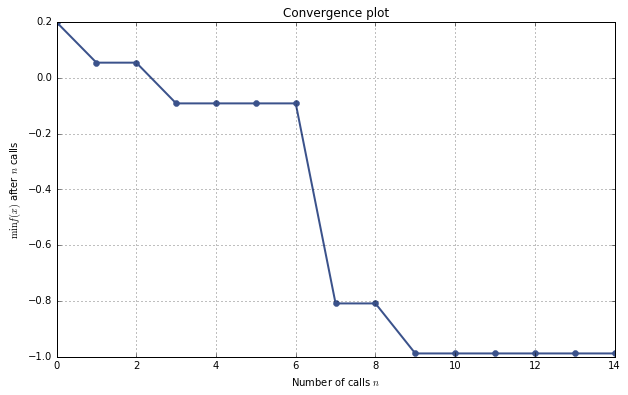
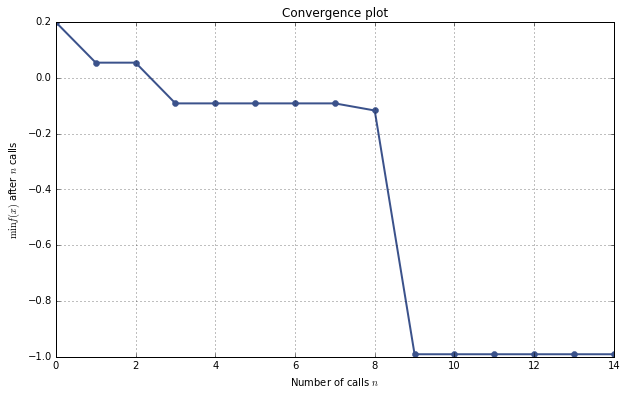
Deploying documentation for 4c825ece7493cb6c2487e1c326f51831e1c94425

diff --git a/notebooks/bayesian-optimization.html b/notebooks/bayesian-optimization.html
@@ -1171,17 +1171,17 @@ controlling the exploration-exploitation trade-off.
                   <span class="n">acq</span><span class="o">=</span><span class="s2">&quot;LCB&quot;</span><span class="p">,</span>          <span class="c1"># the acquisition function (optional)</span>
                   <span class="n">base_estimator</span><span class="o">=</span><span class="n">gp</span><span class="p">,</span>  <span class="c1"># a GP estimator (optional)</span>
                   <span class="n">n_calls</span><span class="o">=</span><span class="mi">15</span><span class="p">,</span>         <span class="c1"># the number of evaluations of f</span>
-                  <span class="n">n_random_starts</span><span class="o">=</span><span class="mi">1</span><span class="p">,</span>          <span class="c1"># the number of random evaluations at initialization</span>
+                  <span class="n">n_random_starts</span><span class="o">=</span><span class="mi">1</span><span class="p">,</span>  <span class="c1"># the number of random evaluations at initialization</span>
                   <span class="n">random_state</span><span class="o">=</span><span class="mi">777</span><span class="p">)</span>
 </pre></div>
 
 
 <p>Accordingly, the approximated minimum is found to be:</p>
-<div class="codehilite"><pre><span></span><span class="s2">&quot;x^*=</span><span class="si">%.4f</span><span class="s2">, f(x^*)=</span><span class="si">%.4f</span><span class="s2">&quot;</span> <span class="o">%</span> <span class="p">(</span><span class="n">res</span><span class="o">.</span><span class="n">x</span><span class="p">,</span> <span class="n">res</span><span class="o">.</span><span class="n">fun</span><span class="p">)</span>
+<div class="codehilite"><pre><span></span><span class="s2">&quot;x^*=</span><span class="si">%.4f</span><span class="s2">, f(x^*)=</span><span class="si">%.4f</span><span class="s2">&quot;</span> <span class="o">%</span> <span class="p">(</span><span class="n">res</span><span class="o">.</span><span class="n">x</span><span class="p">[</span><span class="mi">0</span><span class="p">],</span> <span class="n">res</span><span class="o">.</span><span class="n">fun</span><span class="p">)</span>
 </pre></div>
 
 
-<div class="codehilite"><pre><span></span>&#39;x^*=-0.3054, f(x^*)=-0.9880&#39;
+<div class="codehilite"><pre><span></span>&#39;x^*=-0.2950, f(x^*)=-0.9909&#39;
 </pre></div>
 
 
@@ -1199,10 +1199,10 @@ controlling the exploration-exploitation trade-off.
 </pre></div>
 
 
-<div class="codehilite"><pre><span></span>       fun: -0.98797691126302833
- func_vals: array([ 0.19928047,  0.05426539,  0.74588383, -0.09170902,  0.02286328,
-       -0.00743607,  0.39523305, -0.80869739, -0.63804929, -0.98797691,
-       -0.90691442, -0.68555016, -0.93611953, -0.93899462, -0.84303905])
+<div class="codehilite"><pre><span></span>       fun: -0.99086677726910888
+ func_vals: array([ 0.19928047,  0.05426552,  0.73707278, -0.09170696,  0.0205681 ,
+       -0.0143208 ,  0.3971182 ,  0.10637845, -0.11715768, -0.99086678,
+       -0.81299046, -0.70832964, -0.88766165, -0.89399144, -0.72523841])
     models: [GaussianProcessRegressor(alpha=0.010000000000000002, copy_X_train=True,
              kernel=Matern(length_scale=1, nu=1.5), n_restarts_optimizer=0,
              normalize_y=False, optimizer=&#39;fmin_l_bfgs_b&#39;, random_state=0), GaussianProcessRegressor(alpha=0.010000000000000002, copy_X_train=True,
@@ -1232,23 +1232,9 @@ controlling the exploration-exploitation trade-off.
              normalize_y=False, optimizer=&#39;fmin_l_bfgs_b&#39;, random_state=0), GaussianProcessRegressor(alpha=0.010000000000000002, copy_X_train=True,
              kernel=Matern(length_scale=1, nu=1.5), n_restarts_optimizer=0,
              normalize_y=False, optimizer=&#39;fmin_l_bfgs_b&#39;, random_state=0)]
-     space: &lt;skopt.space.Space object at 0x7fbe79100fd0&gt;
-         x: array([-0.30543376])
-   x_iters: array([[-1.38934506],
-       [ 1.99823817],
-       [ 0.36266965],
-       [-1.98571246],
-       [ 1.33478429],
-       [-0.6192673 ],
-       [-0.94605405],
-       [-0.27569283],
-       [-0.17939988],
-       [-0.30543376],
-       [-0.32830253],
-       [-0.33260938],
-       [-0.29898535],
-       [-0.28619493],
-       [-0.28942012]])
+     space: &lt;skopt.space.Space object at 0x7fb2659bff28&gt;
+         x: [-0.2950021037049726]
+   x_iters: [[-1.389345060394712], [2.0], [0.36759832661543052], [-2.0], [1.3208901627191687], [-0.61713393654416193], [-0.94406516090216697], [1.6493695614209909], [0.99401541039817354], [-0.2950021037049726], [-0.19509859657696732], [-0.29618605818118171], [-0.22693990792121738], [-0.22985942629696079], [-0.19307679268560285]]
 </pre></div>
 
 
@@ -1258,7 +1244,7 @@ controlling the exploration-exploitation trade-off.
 </pre></div>
 
 
-<div class="codehilite"><pre><span></span>&lt;matplotlib.axes._subplots.AxesSubplot at 0x7fbe6985fe48&gt;
+<div class="codehilite"><pre><span></span>&lt;matplotlib.axes._subplots.AxesSubplot at 0x7fb26361ecc0&gt;
 </pre></div>
 
 
@@ -1295,7 +1281,7 @@ controlling the exploration-exploitation trade-off.
 <span class="n">next_x</span> <span class="o">=</span> <span class="n">np</span><span class="o">.</span><span class="n">argmin</span><span class="p">(</span><span class="n">acq</span><span class="p">)</span>
 <span class="n">plt</span><span class="o">.</span><span class="n">plot</span><span class="p">([</span><span class="n">x</span><span class="p">[</span><span class="n">next_x</span><span class="p">]],</span> <span class="p">[</span><span class="n">acq</span><span class="p">[</span><span class="n">next_x</span><span class="p">]],</span> <span class="s2">&quot;b.&quot;</span><span class="p">,</span> <span class="n">markersize</span><span class="o">=</span><span class="mi">15</span><span class="p">,</span> <span class="n">label</span><span class="o">=</span><span class="s2">&quot;Next query point&quot;</span><span class="p">)</span>
 
-<span class="n">plt</span><span class="o">.</span><span class="n">title</span><span class="p">(</span><span class="s2">r&quot;$x^* = </span><span class="si">%.2f</span><span class="s2">, f(x^*) = </span><span class="si">%.2f</span><span class="s2">$&quot;</span> <span class="o">%</span> <span class="p">(</span><span class="n">res</span><span class="o">.</span><span class="n">x</span><span class="p">,</span> <span class="n">res</span><span class="o">.</span><span class="n">fun</span><span class="p">))</span>
+<span class="n">plt</span><span class="o">.</span><span class="n">title</span><span class="p">(</span><span class="s2">r&quot;$x^* = </span><span class="si">%.4f</span><span class="s2">, f(x^*) = </span><span class="si">%.4f</span><span class="s2">$&quot;</span> <span class="o">%</span> <span class="p">(</span><span class="n">res</span><span class="o">.</span><span class="n">x</span><span class="p">[</span><span class="mi">0</span><span class="p">],</span> <span class="n">res</span><span class="o">.</span><span class="n">fun</span><span class="p">))</span>
 <span class="n">plt</span><span class="o">.</span><span class="n">legend</span><span class="p">(</span><span class="n">loc</span><span class="o">=</span><span class="s2">&quot;best&quot;</span><span class="p">)</span>
 <span class="n">plt</span><span class="o">.</span><span class="n">grid</span><span class="p">()</span>
 

diff --git a/index.html b/index.html
@@ -1763,7 +1763,7 @@ http://docs.scipy.org/doc/scipy/reference/generated/scipy.optimize.OptimizeResul
       
   <div class="item">
     <div class="name def" id="skopt.gp_minimize">
-    <p>def <span class="ident">gp_minimize</span>(</p><p>func, dimensions, base_estimator=None, acq=&#39;LCB&#39;, xi=0.01, kappa=1.96, search=&#39;sampling&#39;, n_calls=100, n_points=500, n_random_starts=10, n_restarts_optimizer=5, random_state=None)</p>
+    <p>def <span class="ident">gp_minimize</span>(</p><p>func, dimensions, base_estimator=None, acq=&#39;EI&#39;, xi=0.01, kappa=1.96, search=&#39;lbfgs&#39;, n_calls=100, n_points=500, n_random_starts=10, n_restarts_optimizer=5, random_state=None)</p>
     </div>
     
 
@@ -1807,7 +1807,7 @@ over the Gaussian prior which is much quicker to evaluate.</p>
     The Gaussian process estimator to use for optimization.</p>
 </li>
 <li>
-<p><code>acq</code> [string, default=<code>"LCB"</code>]:
+<p><code>acq</code> [string, default=<code>"EI"</code>]:
     Function to minimize over the gaussian prior. Can be either</p>
 <ul>
 <li><code>"LCB"</code> for lower confidence bound,</li>
@@ -1828,7 +1828,7 @@ over the Gaussian prior which is much quicker to evaluate.</p>
     Used when the acquisition is <code>"LCB"</code>.</p>
 </li>
 <li>
-<p><code>search</code> [string, <code>"sampling"</code> or <code>"lbfgs"</code>]:
+<p><code>search</code> [string, <code>"sampling"</code> or <code>"lbfgs"</code>, default="lbfgs"]:
     Searching for the next possible candidate to update the Gaussian prior
     with.</p>
 <p>If search is set to <code>"sampling"</code>, <code>n_points</code> are sampled randomly
@@ -1887,8 +1887,8 @@ http://docs.scipy.org/doc/scipy/reference/generated/scipy.optimize.OptimizeResul
   <div class="source_cont">
   <p class="source_link"><a href="javascript:void(0);" onclick="toggle('source-skopt.gp_minimize', this);">Show source &equiv;</a></p>
   <div id="source-skopt.gp_minimize" class="source">
-    <div class="codehilite"><pre><span></span><span class="k">def</span> <span class="nf">gp_minimize</span><span class="p">(</span><span class="n">func</span><span class="p">,</span> <span class="n">dimensions</span><span class="p">,</span> <span class="n">base_estimator</span><span class="o">=</span><span class="bp">None</span><span class="p">,</span> <span class="n">acq</span><span class="o">=</span><span class="s2">&quot;LCB&quot;</span><span class="p">,</span> <span class="n">xi</span><span class="o">=</span><span class="mf">0.01</span><span class="p">,</span>
-                <span class="n">kappa</span><span class="o">=</span><span class="mf">1.96</span><span class="p">,</span> <span class="n">search</span><span class="o">=</span><span class="s2">&quot;sampling&quot;</span><span class="p">,</span> <span class="n">n_calls</span><span class="o">=</span><span class="mi">100</span><span class="p">,</span> <span class="n">n_points</span><span class="o">=</span><span class="mi">500</span><span class="p">,</span>
+    <div class="codehilite"><pre><span></span><span class="k">def</span> <span class="nf">gp_minimize</span><span class="p">(</span><span class="n">func</span><span class="p">,</span> <span class="n">dimensions</span><span class="p">,</span> <span class="n">base_estimator</span><span class="o">=</span><span class="bp">None</span><span class="p">,</span> <span class="n">acq</span><span class="o">=</span><span class="s2">&quot;EI&quot;</span><span class="p">,</span> <span class="n">xi</span><span class="o">=</span><span class="mf">0.01</span><span class="p">,</span>
+                <span class="n">kappa</span><span class="o">=</span><span class="mf">1.96</span><span class="p">,</span> <span class="n">search</span><span class="o">=</span><span class="s2">&quot;lbfgs&quot;</span><span class="p">,</span> <span class="n">n_calls</span><span class="o">=</span><span class="mi">100</span><span class="p">,</span> <span class="n">n_points</span><span class="o">=</span><span class="mi">500</span><span class="p">,</span>
                 <span class="n">n_random_starts</span><span class="o">=</span><span class="mi">10</span><span class="p">,</span> <span class="n">n_restarts_optimizer</span><span class="o">=</span><span class="mi">5</span><span class="p">,</span> <span class="n">random_state</span><span class="o">=</span><span class="bp">None</span><span class="p">):</span>
     <span class="sd">&quot;&quot;&quot;Bayesian optimization using Gaussian Processes.</span>
 
@@ -1926,7 +1926,7 @@ http://docs.scipy.org/doc/scipy/reference/generated/scipy.optimize.OptimizeResul
 <span class="sd">    * `base_estimator` [a Gaussian process estimator]:</span>
 <span class="sd">        The Gaussian process estimator to use for optimization.</span>
 
-<span class="sd">    * `acq` [string, default=`&quot;LCB&quot;`]:</span>
+<span class="sd">    * `acq` [string, default=`&quot;EI&quot;`]:</span>
 <span class="sd">        Function to minimize over the gaussian prior. Can be either</span>
 
 <span class="sd">        - `&quot;LCB&quot;` for lower confidence bound,</span>
@@ -1943,7 +1943,7 @@ http://docs.scipy.org/doc/scipy/reference/generated/scipy.optimize.OptimizeResul
 <span class="sd">        exploration over exploitation and vice versa.</span>
 <span class="sd">        Used when the acquisition is `&quot;LCB&quot;`.</span>
 
-<span class="sd">    * `search` [string, `&quot;sampling&quot;` or `&quot;lbfgs&quot;`]:</span>
+<span class="sd">    * `search` [string, `&quot;sampling&quot;` or `&quot;lbfgs&quot;`, default=&quot;lbfgs&quot;]:</span>
 <span class="sd">        Searching for the next possible candidate to update the Gaussian prior</span>
 <span class="sd">        with.</span>
 
@@ -2015,7 +2015,7 @@ http://docs.scipy.org/doc/scipy/reference/generated/scipy.optimize.OptimizeResul
             <span class="s2">&quot;Expected n_calls &gt;= </span><span class="si">%d</span><span class="s2">, got </span><span class="si">%d</span><span class="s2">&quot;</span> <span class="o">%</span> <span class="p">(</span><span class="n">n_random_starts</span><span class="p">,</span> <span class="n">n_calls</span><span class="p">))</span>
 
     <span class="n">n_model_iter</span> <span class="o">=</span> <span class="n">n_calls</span> <span class="o">-</span> <span class="n">n_random_starts</span>
-    
+
     <span class="n">Xi</span> <span class="o">=</span> <span class="n">space</span><span class="o">.</span><span class="n">rvs</span><span class="p">(</span><span class="n">n_samples</span><span class="o">=</span><span class="n">n_random_starts</span><span class="p">,</span> <span class="n">random_state</span><span class="o">=</span><span class="n">rng</span><span class="p">)</span>
     <span class="n">yi</span> <span class="o">=</span> <span class="p">[</span><span class="n">func</span><span class="p">(</span><span class="n">x</span><span class="p">)</span> <span class="k">for</span> <span class="n">x</span> <span class="ow">in</span> <span class="n">Xi</span><span class="p">]</span>
     <span class="k">if</span> <span class="n">np</span><span class="o">.</span><span class="n">ndim</span><span class="p">(</span><span class="n">yi</span><span class="p">)</span> <span class="o">!=</span> <span class="mi">1</span><span class="p">:</span>

diff --git a/space.m.html b/space.m.html
@@ -1829,6 +1829,10 @@ original space.</p></div>
             <div class="item">
             <p id="skopt.space.Categorical.size" class="name">var <span class="ident">size</span></p>
             
+    <p class="inheritance">
+     <strong>Inheritance:</strong>
+       <code><a href="#skopt.space.Dimension">Dimension</a></code>.<code><a href="#skopt.space.Dimension.size">size</a></code>
+    </p>
 
             
   
@@ -2290,10 +2294,6 @@ orignal space.</p></div>
             <div class="item">
             <p id="skopt.space.Integer.transformed_bounds" class="name">var <span class="ident">transformed_bounds</span></p>
             
-    <p class="inheritance">
-     <strong>Inheritance:</strong>
-       <code><a href="#skopt.space.Dimension">Dimension</a></code>.<code><a href="#skopt.space.Dimension.transformed_bounds">transformed_bounds</a></code>
-    </p>
 
             
   
@@ -2304,6 +2304,10 @@ orignal space.</p></div>
             <div class="item">
             <p id="skopt.space.Integer.transformed_size" class="name">var <span class="ident">transformed_size</span></p>
             
+    <p class="inheritance">
+     <strong>Inheritance:</strong>
+       <code><a href="#skopt.space.Dimension">Dimension</a></code>.<code><a href="#skopt.space.Dimension.transformed_size">transformed_size</a></code>
+    </p>
 
             
   
@@ -2600,10 +2604,6 @@ orignal space.</p></div>
             <div class="item">
             <p id="skopt.space.Real.transformed_bounds" class="name">var <span class="ident">transformed_bounds</span></p>
             
-    <p class="inheritance">
-     <strong>Inheritance:</strong>
-       <code><a href="#skopt.space.Dimension">Dimension</a></code>.<code><a href="#skopt.space.Dimension.transformed_bounds">transformed_bounds</a></code>
-    </p>
 
             
   
@@ -2614,6 +2614,10 @@ orignal space.</p></div>
             <div class="item">
             <p id="skopt.space.Real.transformed_size" class="name">var <span class="ident">transformed_size</span></p>
             
+    <p class="inheritance">
+     <strong>Inheritance:</strong>
+       <code><a href="#skopt.space.Dimension">Dimension</a></code>.<code><a href="#skopt.space.Dimension.transformed_size">transformed_size</a></code>
+    </p>
 
             
   

diff --git a/notebooks/bayesian-optimization.md b/notebooks/bayesian-optimization.md
@@ -99,7 +99,7 @@ res = gp_minimize(f,                  # the function to minimize
                   acq="LCB",          # the acquisition function (optional)
                   base_estimator=gp,  # a GP estimator (optional)
                   n_calls=15,         # the number of evaluations of f
-                  n_random_starts=1,          # the number of random evaluations at initialization
+                  n_random_starts=1,  # the number of random evaluations at initialization
                   random_state=777)
 ```
 
@@ -107,13 +107,13 @@ Accordingly, the approximated minimum is found to be:
 
 
 ```python
-"x^*=%.4f, f(x^*)=%.4f" % (res.x, res.fun)
+"x^*=%.4f, f(x^*)=%.4f" % (res.x[0], res.fun)
 ```
 
 
 
 
-    'x^*=-0.3054, f(x^*)=-0.9880'
+    'x^*=-0.2950, f(x^*)=-0.9909'
 
 
 
@@ -135,10 +135,10 @@ res
 
 
 
-           fun: -0.98797691126302833
-     func_vals: array([ 0.19928047,  0.05426539,  0.74588383, -0.09170902,  0.02286328,
-           -0.00743607,  0.39523305, -0.80869739, -0.63804929, -0.98797691,
-           -0.90691442, -0.68555016, -0.93611953, -0.93899462, -0.84303905])
+           fun: -0.99086677726910888
+     func_vals: array([ 0.19928047,  0.05426552,  0.73707278, -0.09170696,  0.0205681 ,
+           -0.0143208 ,  0.3971182 ,  0.10637845, -0.11715768, -0.99086678,
+           -0.81299046, -0.70832964, -0.88766165, -0.89399144, -0.72523841])
         models: [GaussianProcessRegressor(alpha=0.010000000000000002, copy_X_train=True,
                  kernel=Matern(length_scale=1, nu=1.5), n_restarts_optimizer=0,
                  normalize_y=False, optimizer='fmin_l_bfgs_b', random_state=0), GaussianProcessRegressor(alpha=0.010000000000000002, copy_X_train=True,
@@ -168,23 +168,9 @@ res
                  normalize_y=False, optimizer='fmin_l_bfgs_b', random_state=0), GaussianProcessRegressor(alpha=0.010000000000000002, copy_X_train=True,
                  kernel=Matern(length_scale=1, nu=1.5), n_restarts_optimizer=0,
                  normalize_y=False, optimizer='fmin_l_bfgs_b', random_state=0)]
-         space: <skopt.space.Space object at 0x7fbe79100fd0>
-             x: array([-0.30543376])
-       x_iters: array([[-1.38934506],
-           [ 1.99823817],
-           [ 0.36266965],
-           [-1.98571246],
-           [ 1.33478429],
-           [-0.6192673 ],
-           [-0.94605405],
-           [-0.27569283],
-           [-0.17939988],
-           [-0.30543376],
-           [-0.32830253],
-           [-0.33260938],
-           [-0.29898535],
-           [-0.28619493],
-           [-0.28942012]])
+         space: <skopt.space.Space object at 0x7fb2659bff28>
+             x: [-0.2950021037049726]
+       x_iters: [[-1.389345060394712], [2.0], [0.36759832661543052], [-2.0], [1.3208901627191687], [-0.61713393654416193], [-0.94406516090216697], [1.6493695614209909], [0.99401541039817354], [-0.2950021037049726], [-0.19509859657696732], [-0.29618605818118171], [-0.22693990792121738], [-0.22985942629696079], [-0.19307679268560285]]
 
 
 
@@ -199,7 +185,7 @@ plot_convergence(res)
 
 
 
-    <matplotlib.axes._subplots.AxesSubplot at 0x7fbe6985fe48>
+    <matplotlib.axes._subplots.AxesSubplot at 0x7fb26361ecc0>
 
 
 
@@ -241,7 +227,7 @@ plt.plot(x, gaussian_lcb(x, gp), "b", label="LCB(x)")
 next_x = np.argmin(acq)
 plt.plot([x[next_x]], [acq[next_x]], "b.", markersize=15, label="Next query point")
 
-plt.title(r"$x^* = %.2f, f(x^*) = %.2f$" % (res.x, res.fun))
+plt.title(r"$x^* = %.4f, f(x^*) = %.4f$" % (res.x[0], res.fun))
 plt.legend(loc="best")
 plt.grid()
 
